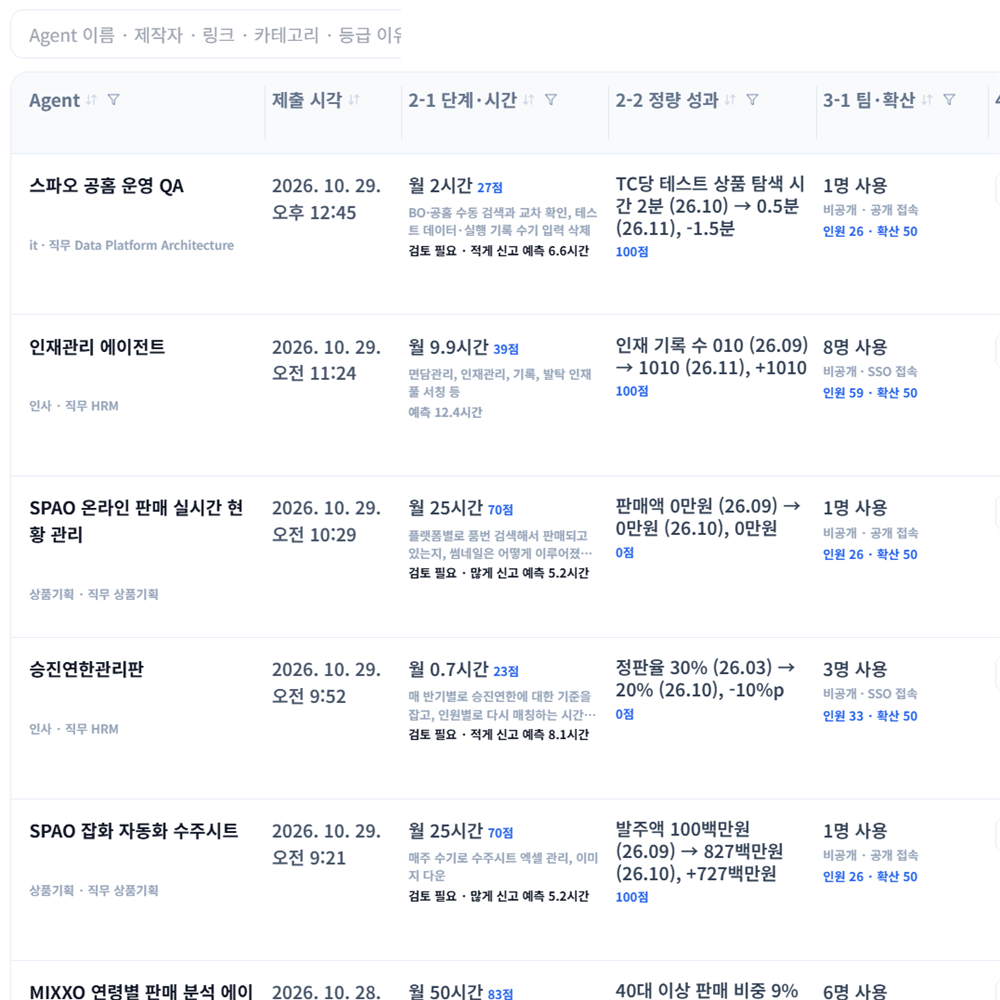
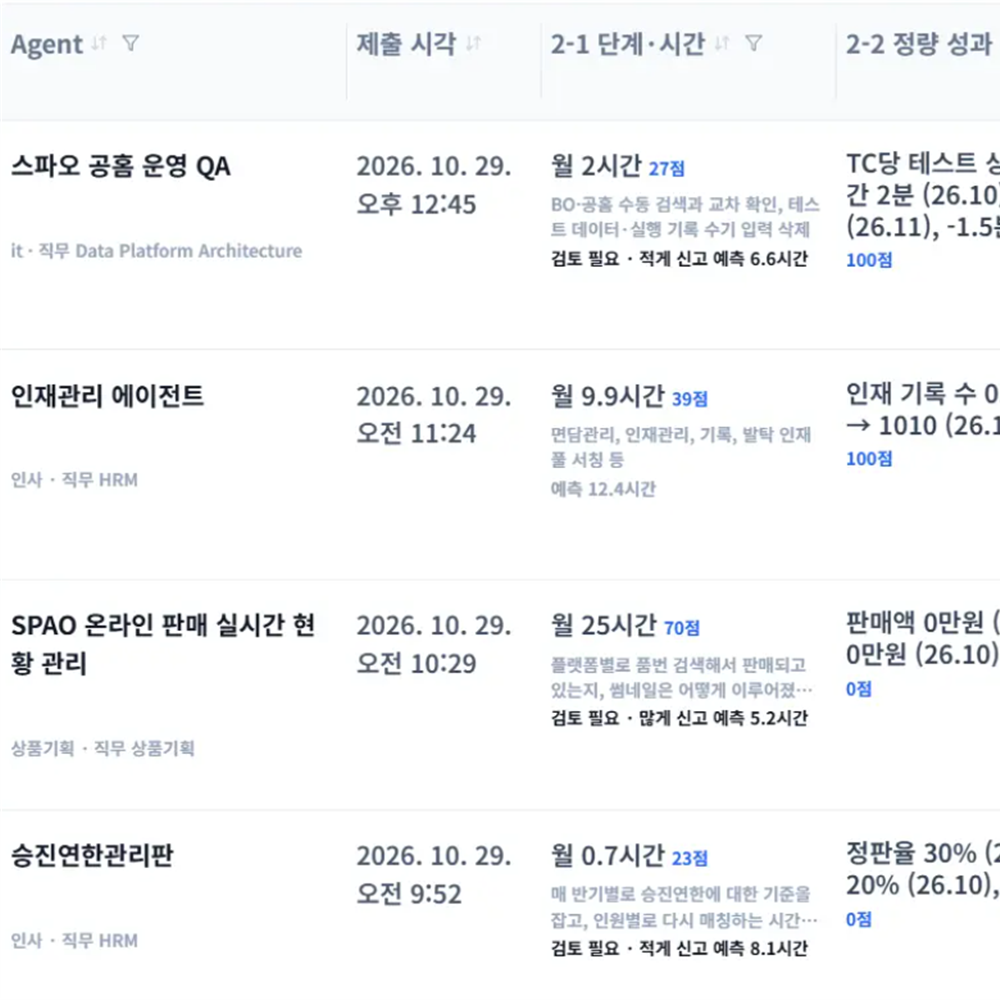
AI 인재풀 평가 표 이미지를 새 캡처(1035x780)로 교체, 썸네일 재생성

diff --git a/src/data/projects.ts b/src/data/projects.ts
@@ -790,8 +790,8 @@ export const PROJECTS: Project[] = [
       src: "/projects/talent-pool-table.png",
       alt: "관리 화면 Agent 평가 표: Agent 이름, 제출 시각, 2-1 단계·시간(월 절감 시간과 점수), 2-2 정량 성과(전후 비교와 점수), 3-1 팀·확산(사용 인원·확산 점수)",
       caption: "관리 화면 Agent 평가 표: 절감 시간 · 정량 성과(전후) · 확산 인원을 기준별 점수와 함께 한 줄로 봅니다 (제작자 이름과 주소는 가림)",
-      width: 1077,
-      height: 1194
+      width: 1035,
+      height: 780
     },
     thumb: {
       src: "/projects/talent-pool-thumb.png",

diff --git a/src/data/projects.en.ts b/src/data/projects.en.ts
@@ -603,8 +603,8 @@ export const PROJECTS_EN: Record<string, Partial<Project>> = {
       src: "/projects/talent-pool-table.png",
       alt: "Admin agent-evaluation table: agent name, submission time, 2-1 steps and hours saved with score, 2-2 quantitative outcome before/after with score, 3-1 users and spread score",
       caption: "Admin agent-evaluation table: hours saved · quantitative outcome (before/after) · users and spread, each scored per criterion (builder names and URLs masked)",
-      width: 1077,
-      height: 1194
+      width: 1035,
+      height: 780
     },
     thumb: {
       src: "/projects/talent-pool-thumb.png",
